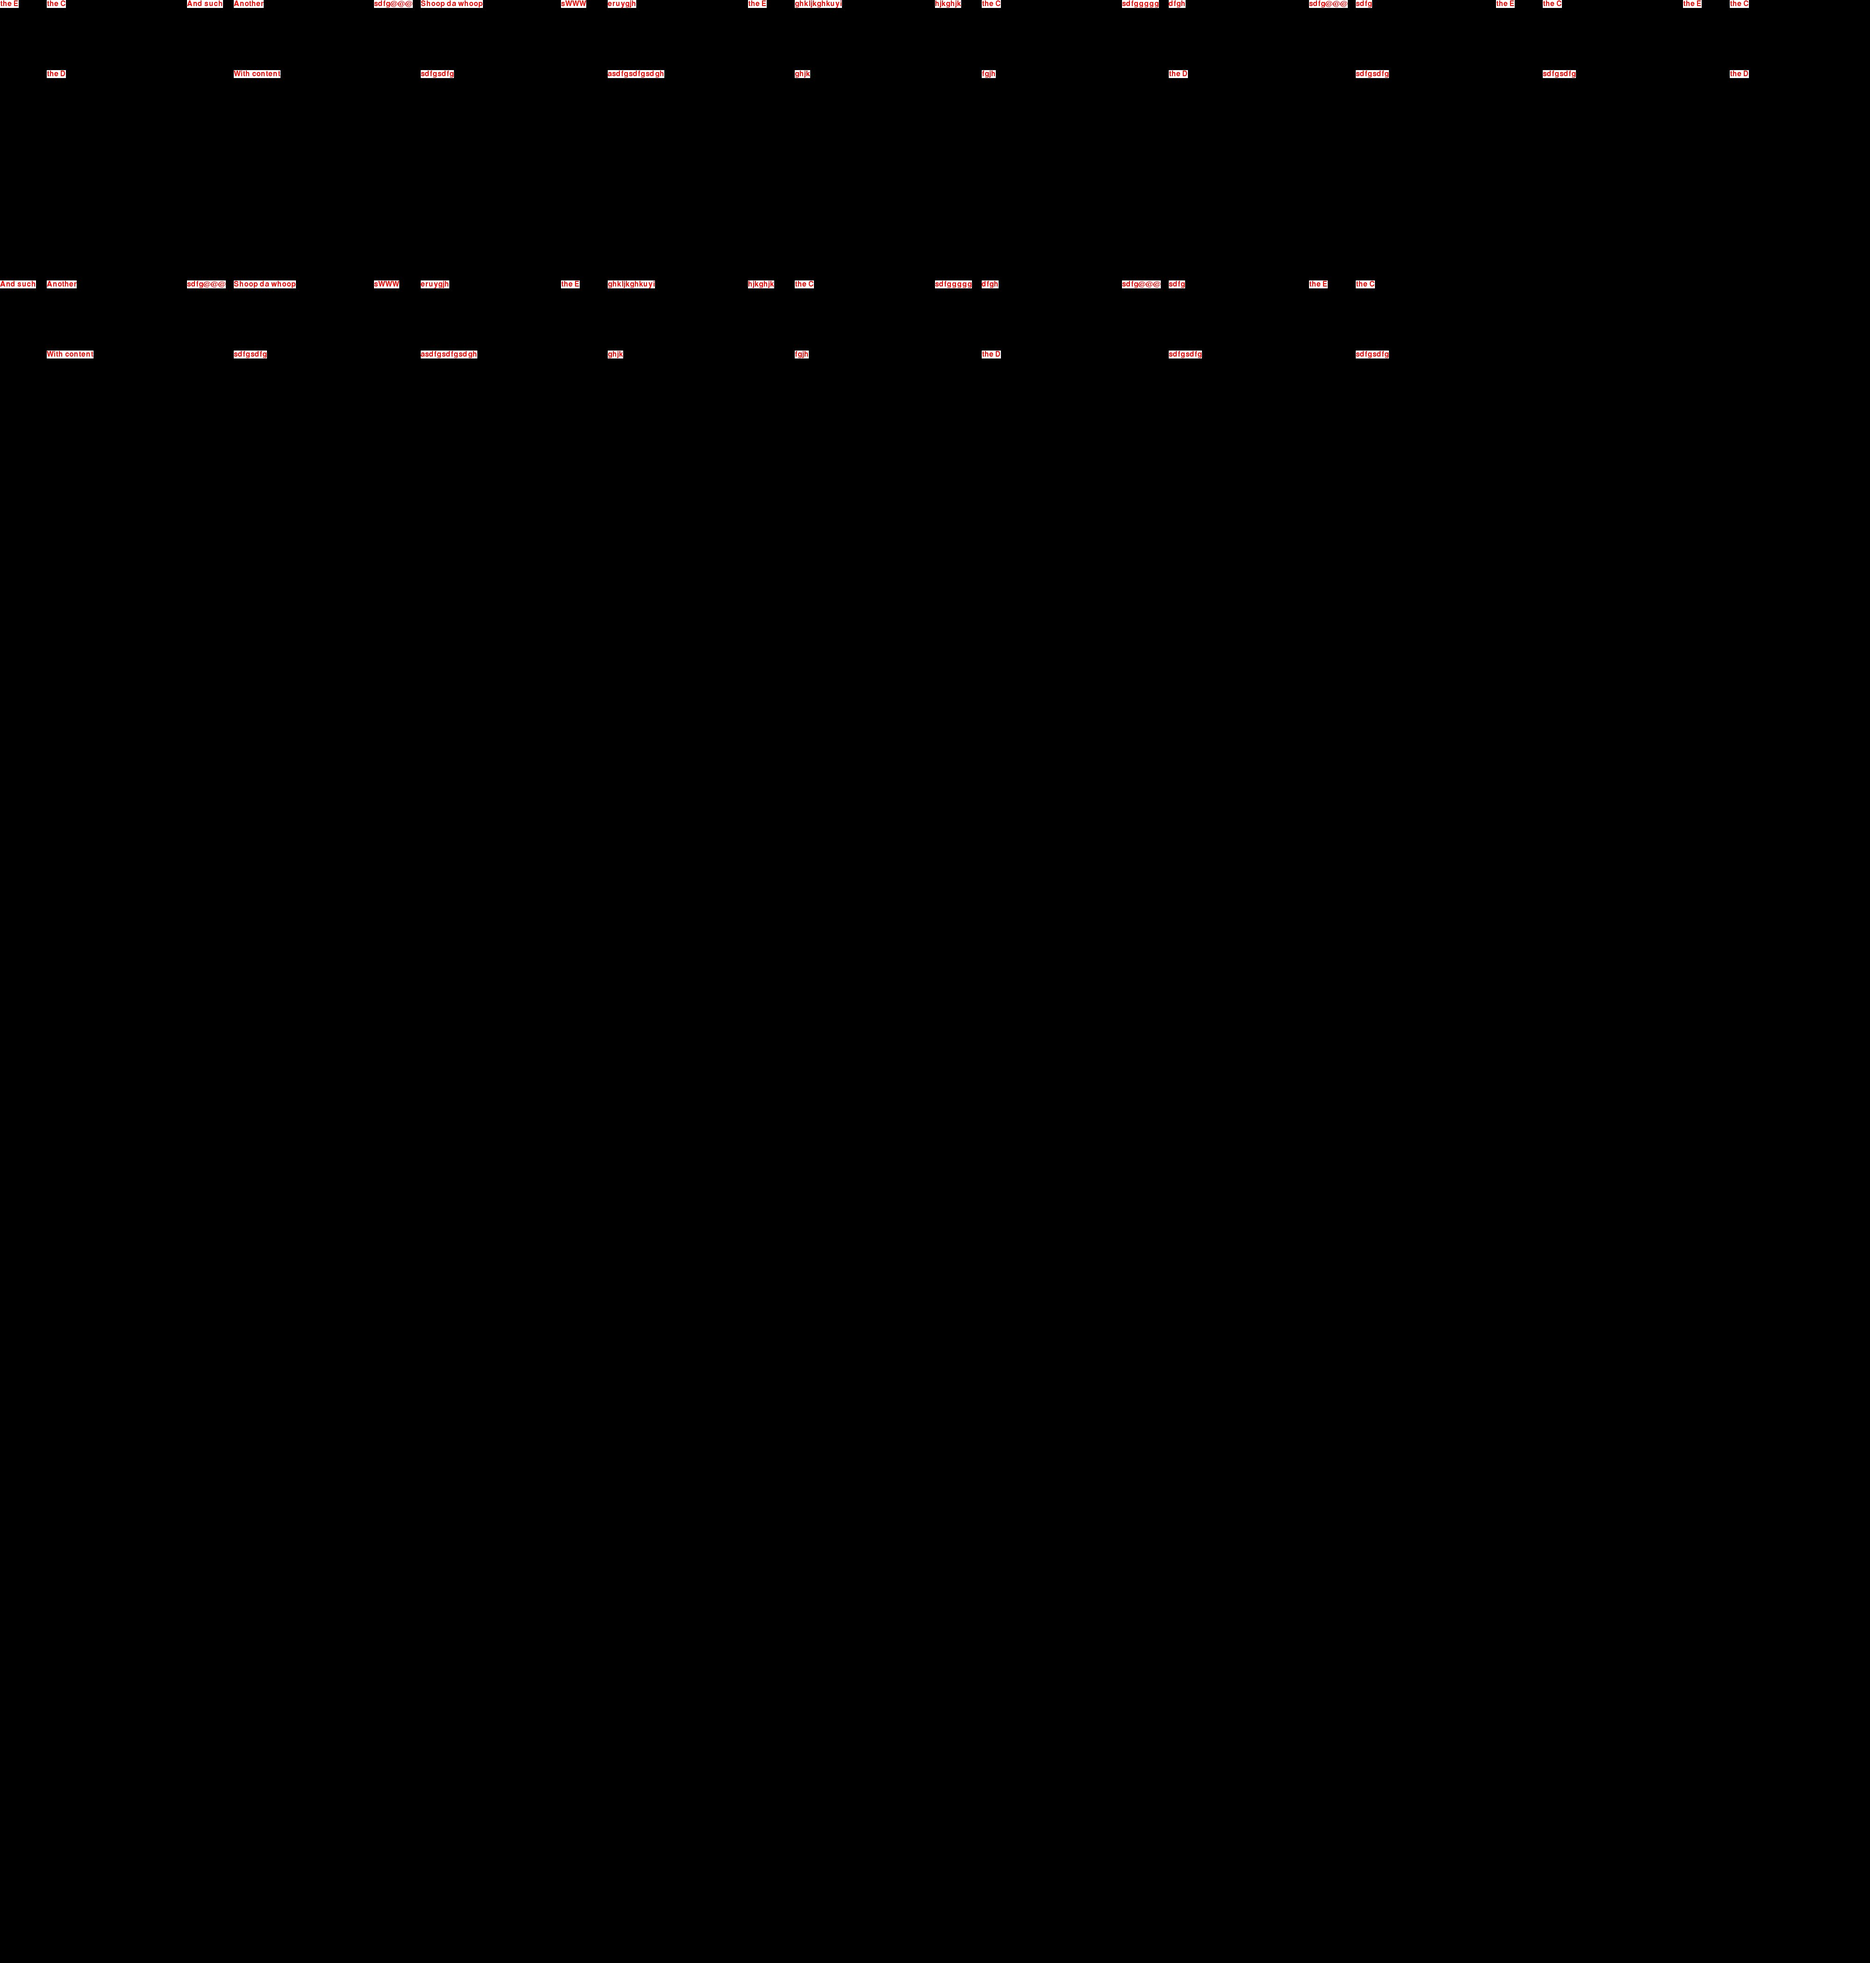
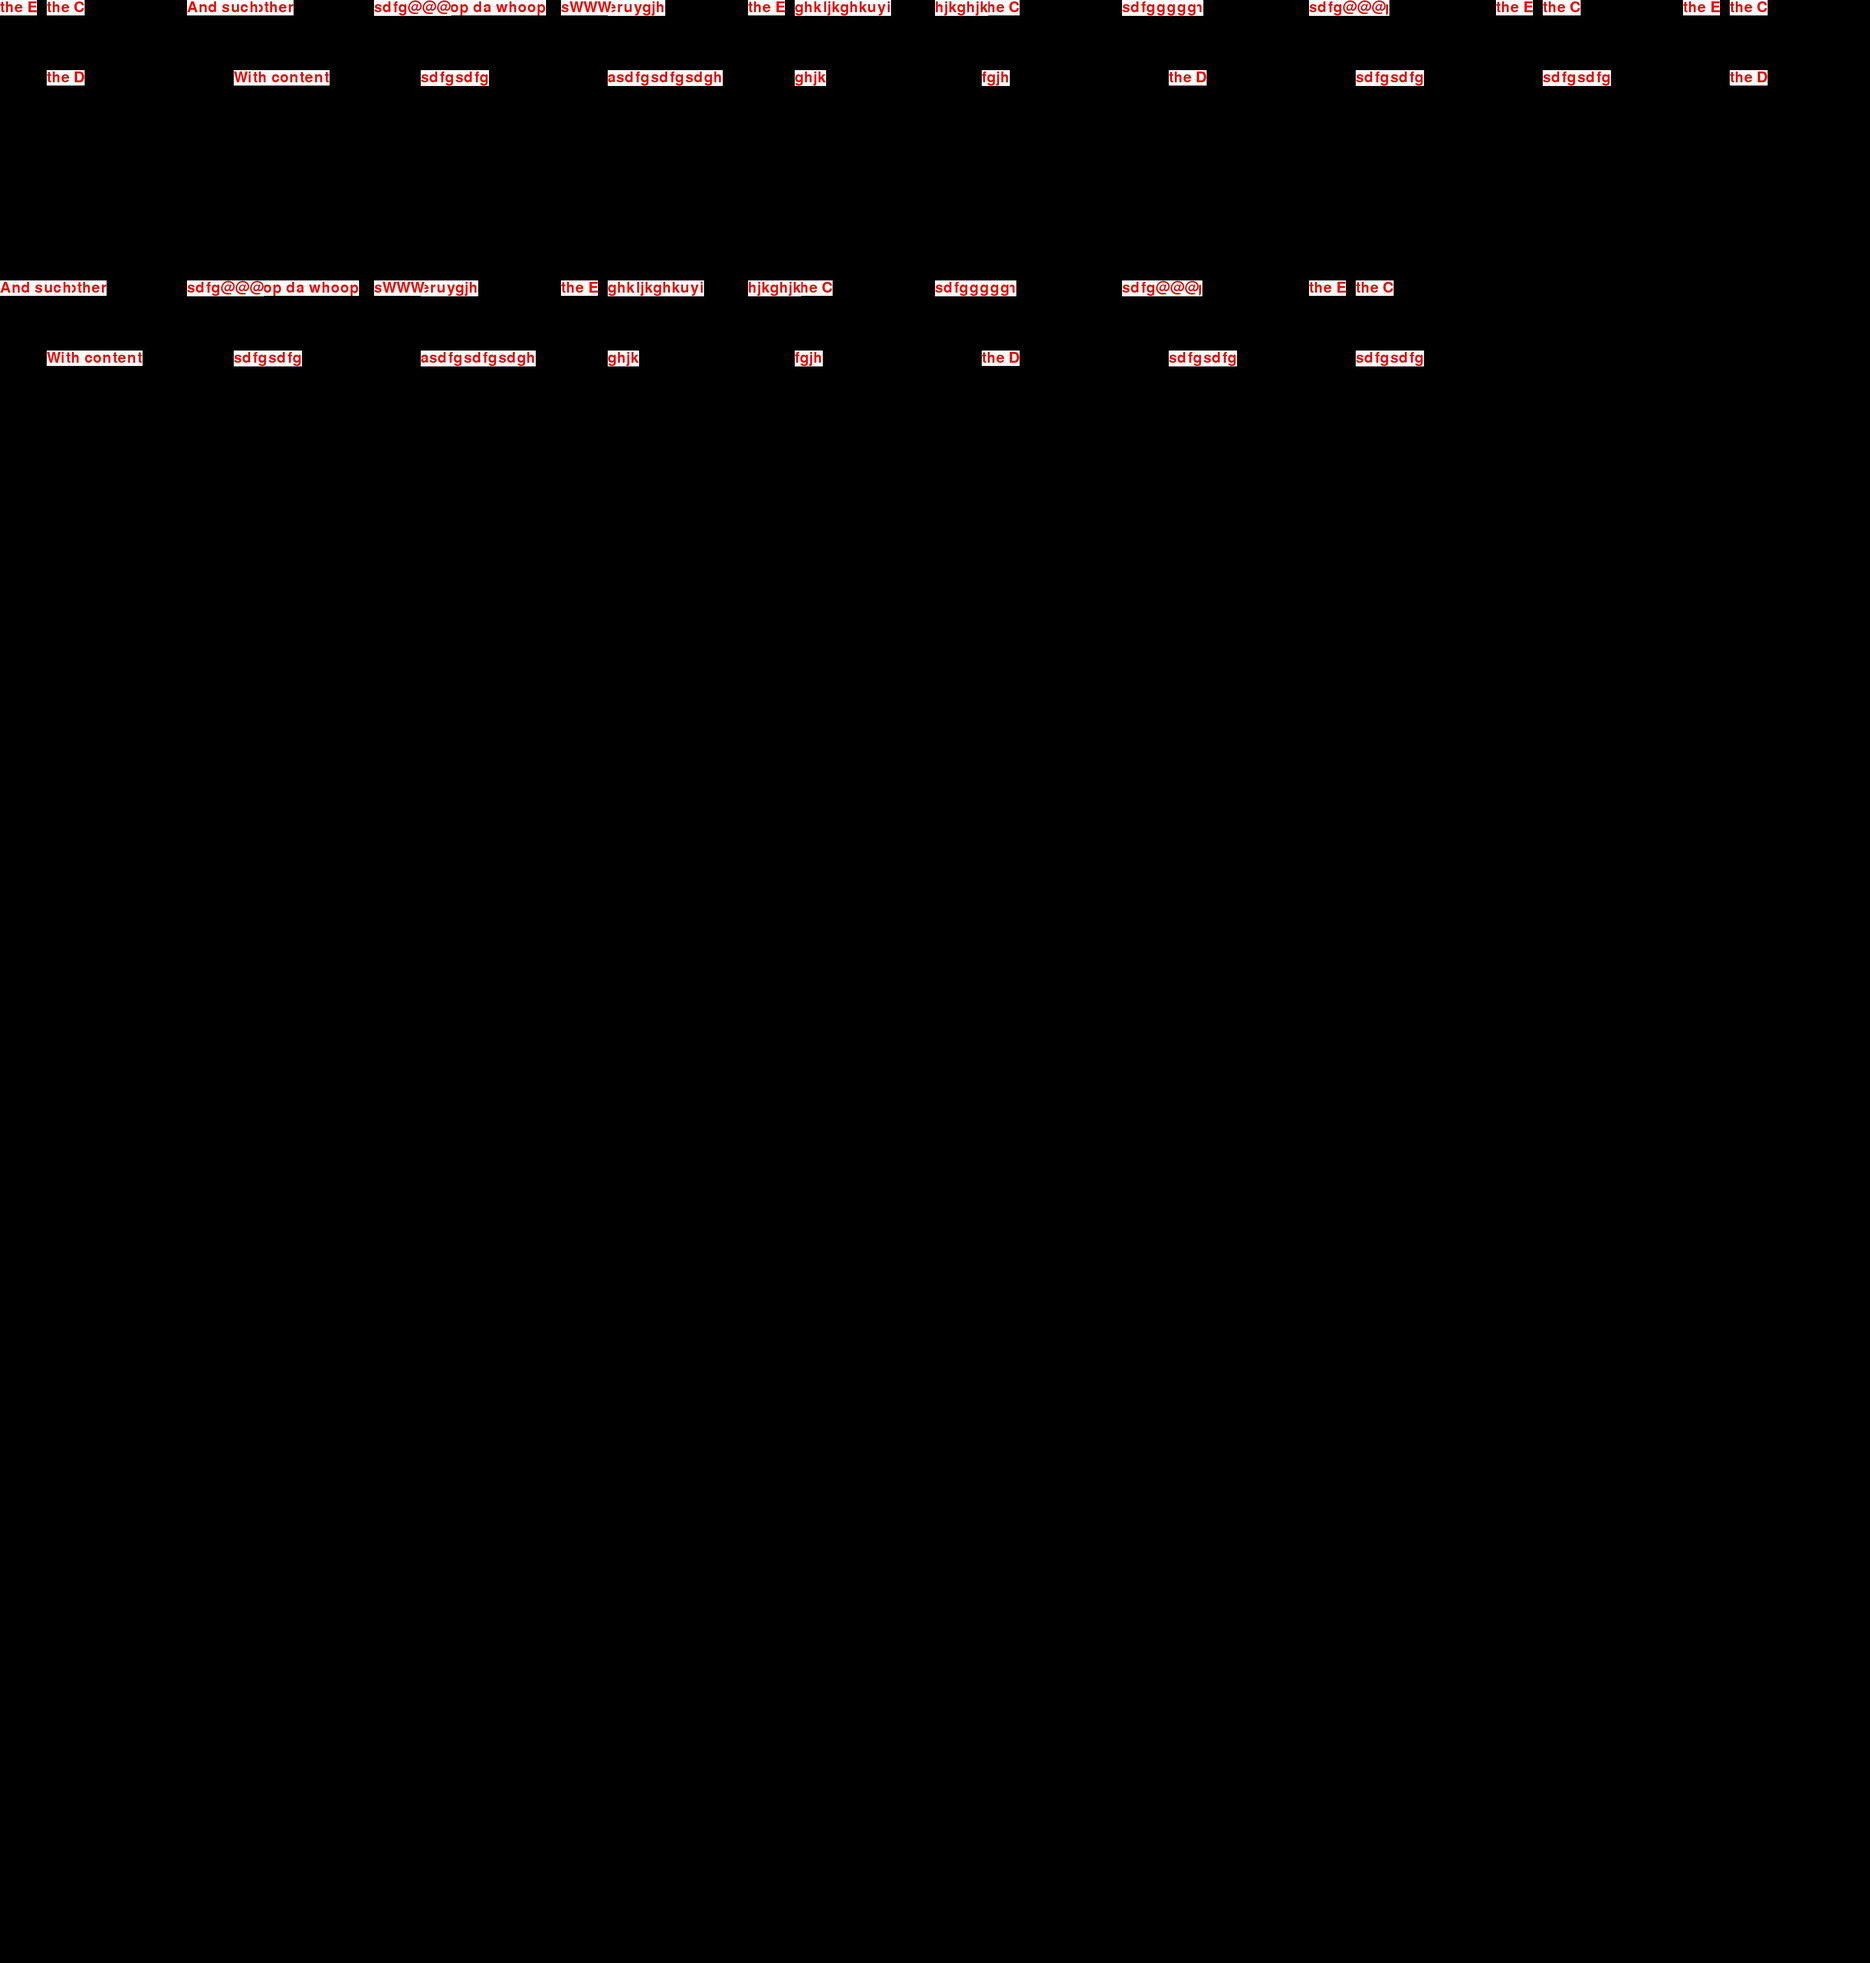
Parsing decks

diff --git a/script.py b/script.py
@@ -4,6 +4,7 @@ from sheetParser.tokenParser import TokenParser
 from sheetParser.diceParser import DiceParser
 from sheetParser.complexTypeParser import ComplexTypeParser
 from sheetParser.complexObjectParser import ComplexObjectParser
+from sheetParser.deckParser import DeckParser
 
 from creator.entityCreator import EntityCreator
 
@@ -30,6 +31,7 @@ dice = DiceParser.parse(workbook.sheet_by_name('Dice'))
 complexTypes = ComplexTypeParser.parse(workbook.sheet_by_name('ComplexTypes'), workbook.sheet_by_name('Shapes'))
 complexParser = ComplexObjectParser(complexTypes)
 complexObjects = complexParser.parse(workbook.sheet_by_name('ComplexObjects'))
+decks = DeckParser.parse(workbook.sheet_by_name('Decks'))
 
 # build all required entities
 creator = EntityCreator(tokens + dice + complexObjects)

diff --git a/sheetParser/deckParser.py b/sheetParser/deckParser.py
@@ -1,0 +1,21 @@
+from domain.deck import Deck
+
+class DeckParser:
+    def parse(sheet):
+        decks = {}
+        current_deck = None
+        row = 0
+        while row < sheet.nrows:
+            if sheet.cell(rowx=row, colx=0).value == 'Deck':
+                # a new deck begins
+                if current_deck:
+                    decks[current_deck.name] = current_deck
+                current_deck = Deck(sheet.cell(rowx=row, colx=1).value)
+            else:
+                # add card to current deck
+                current_deck.addCard(sheet.cell(rowx=row, colx=0).value, int(sheet.cell(rowx=row, colx=1).value))
+            row += 1
+
+        if current_deck:
+            decks[current_deck.name] = current_deck
+        return decks

diff --git a/drawer/complexObjectDrawer.py b/drawer/complexObjectDrawer.py
@@ -8,7 +8,7 @@ class ComplexObjectDrawer:
     def __init__(self, object):
         self.object = object
         self.size = self.getShapeSize(object.type.shape)
-        self.fontObj = pygame.font.Font('freesansbold.ttf', 16)
+        self.fontObj = pygame.font.Font('freesansbold.ttf', 32)
 
     def draw(self):
         self.surf = pygame.Surface((CARD_WIDTH,CARD_HEIGHT))

diff --git a/domain/deck.py b/domain/deck.py
@@ -1,0 +1,7 @@
+class Deck:
+    def __init__(self, name):
+        self.name = name
+        self.cards = []
+
+    def addCard(self, card, count):
+        self.cards.append((card, count))

diff --git a/sheetParser/diceParser.py b/sheetParser/diceParser.py
@@ -1,7 +1,6 @@
 from reader.color import read_color
 from domain.die import Die
 
-
 class DiceParser:
     def parse(sheet):
         dice = []
